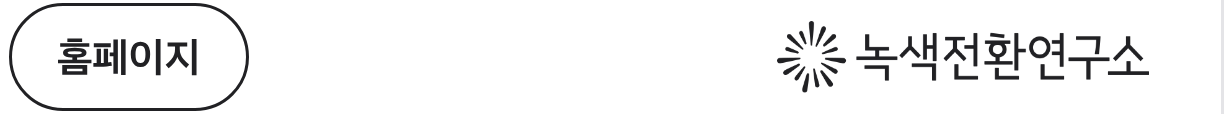
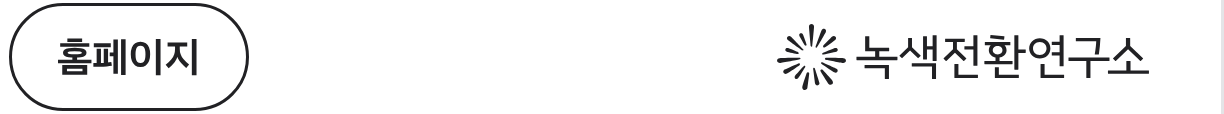
메일 서명: 국문 로고 비율 바로잡기 (원본 SVG로 다시 그림)
Claude-Session: https://claude.ai/code/session_01K576UXdyuGhNawx4ogKxvz

diff --git a/signature.html b/signature.html
@@ -223,7 +223,7 @@
 <script src="js/card-data.js?v=20261111b"></script>
 <script src="js/db-load.js?v=20261111a"></script>
 <script src="js/sig-glyphs.js?v=20261111a"></script>
-<script src="js/sig-core.js?v=20261112d"></script>
+<script src="js/sig-core.js?v=20261112e"></script>
 <script src="js/sig-render.js?v=20261112b"></script>
 <script src="js/sig-app.js?v=20261112c"></script>
 </body>

diff --git a/js/sig-core.js b/js/sig-core.js
@@ -4,7 +4,7 @@
 
   const SITE = 'https://minskapo.github.io/igt-namecard/';
   const BASE = SITE + 'assets/email/sig/';
-  const COMMON_VER = '20261112b';
+  const COMMON_VER = '20261112c';
   const OFFICE = { kr: '02-2135-1148', en: '+82-2-2135-1148' };
   const ORG_EN = 'Institute for Green Transformation';
   const SEP = '  |  ';
